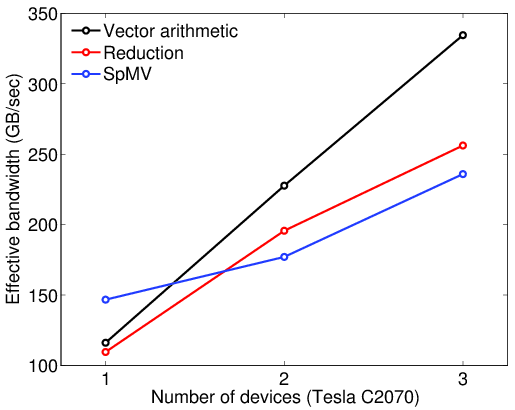
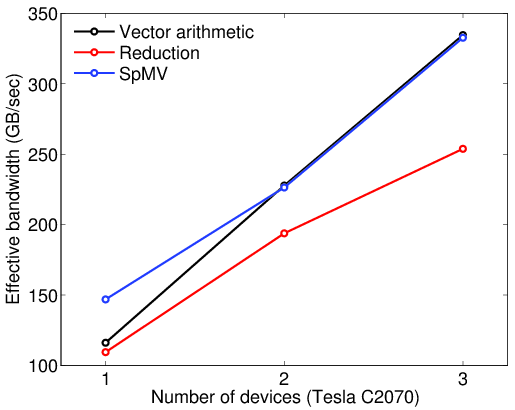
Updated scalability graphs
Updated scalability graphs after switch to async copy of ghost points
in SpMV.

diff --git a/vexcl/vexcl.hpp b/vexcl/vexcl.hpp
@@ -207,7 +207,7 @@ std::cout << sum(x) << std::endl;
 In the images below, scalability of the library with respect to number of
 compute devices is shown. Effective performance (GFLOPS) and bandwidth (GB/sec)
 were measured by launching big number of test kernels on one, two, or three
-Nvidia Tesla C2070 cards. The results shown are averaged over 50 runs.
+Nvidia Tesla C2070 cards. The results shown are averaged over 20 runs.
 
 The details of the experiments may be found in <a
 href="https://github.com/ddemidov/vexcl/blob/master/examples/profiling.cpp">examples/profiling.cpp</a>
